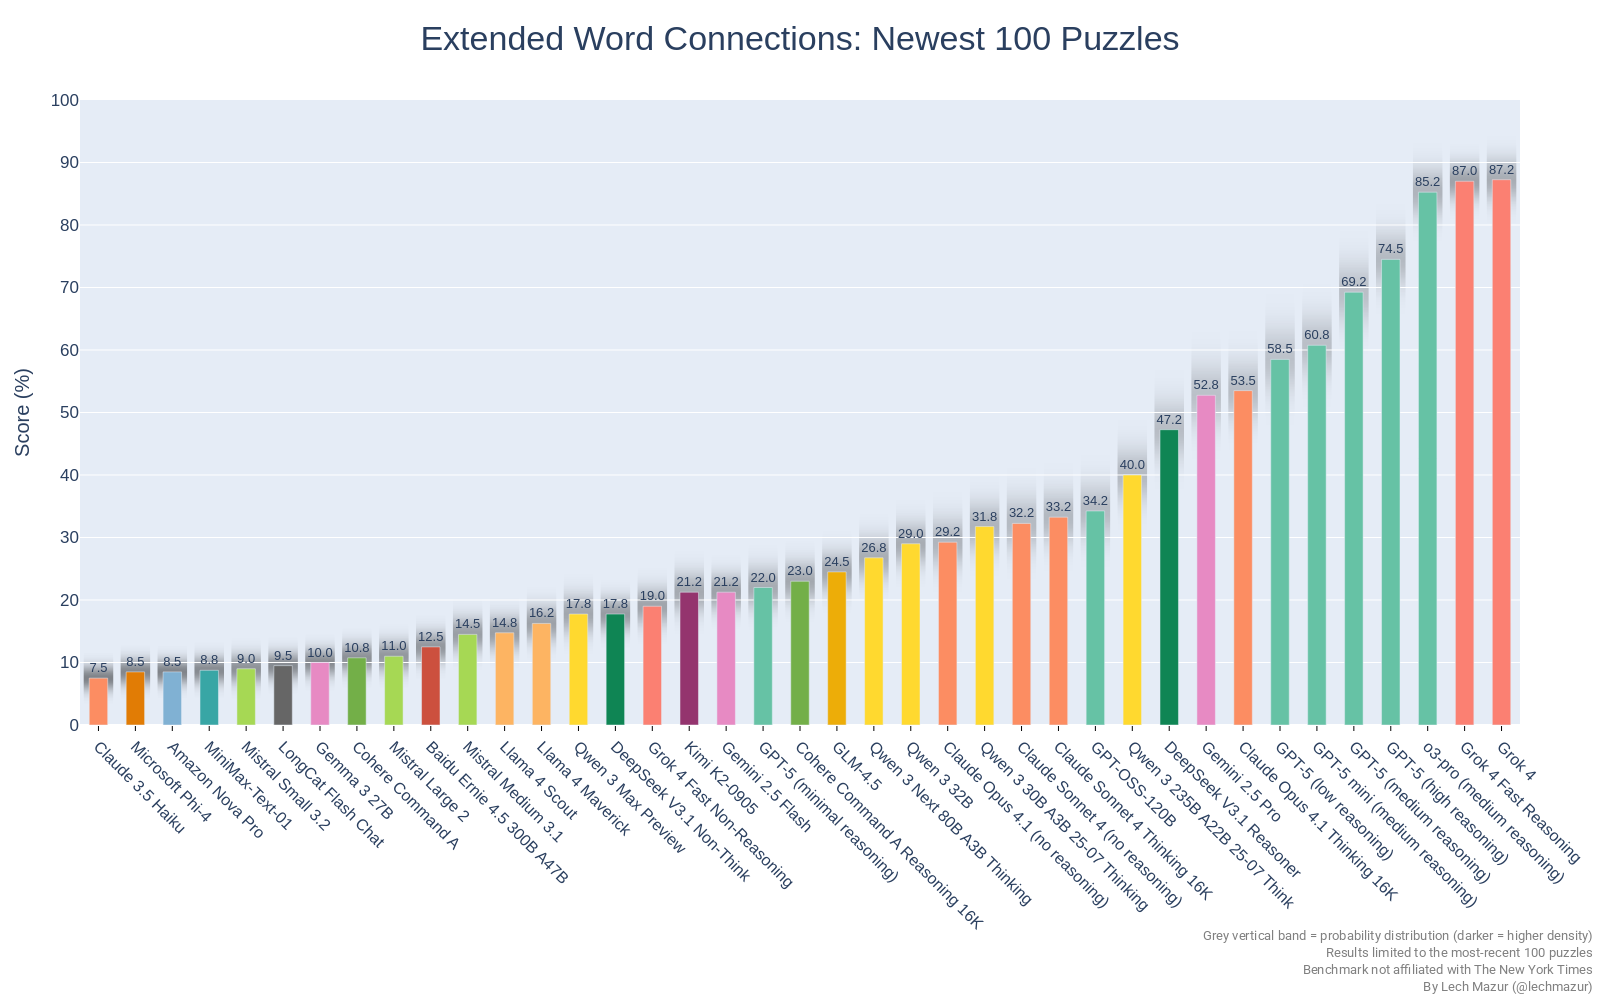
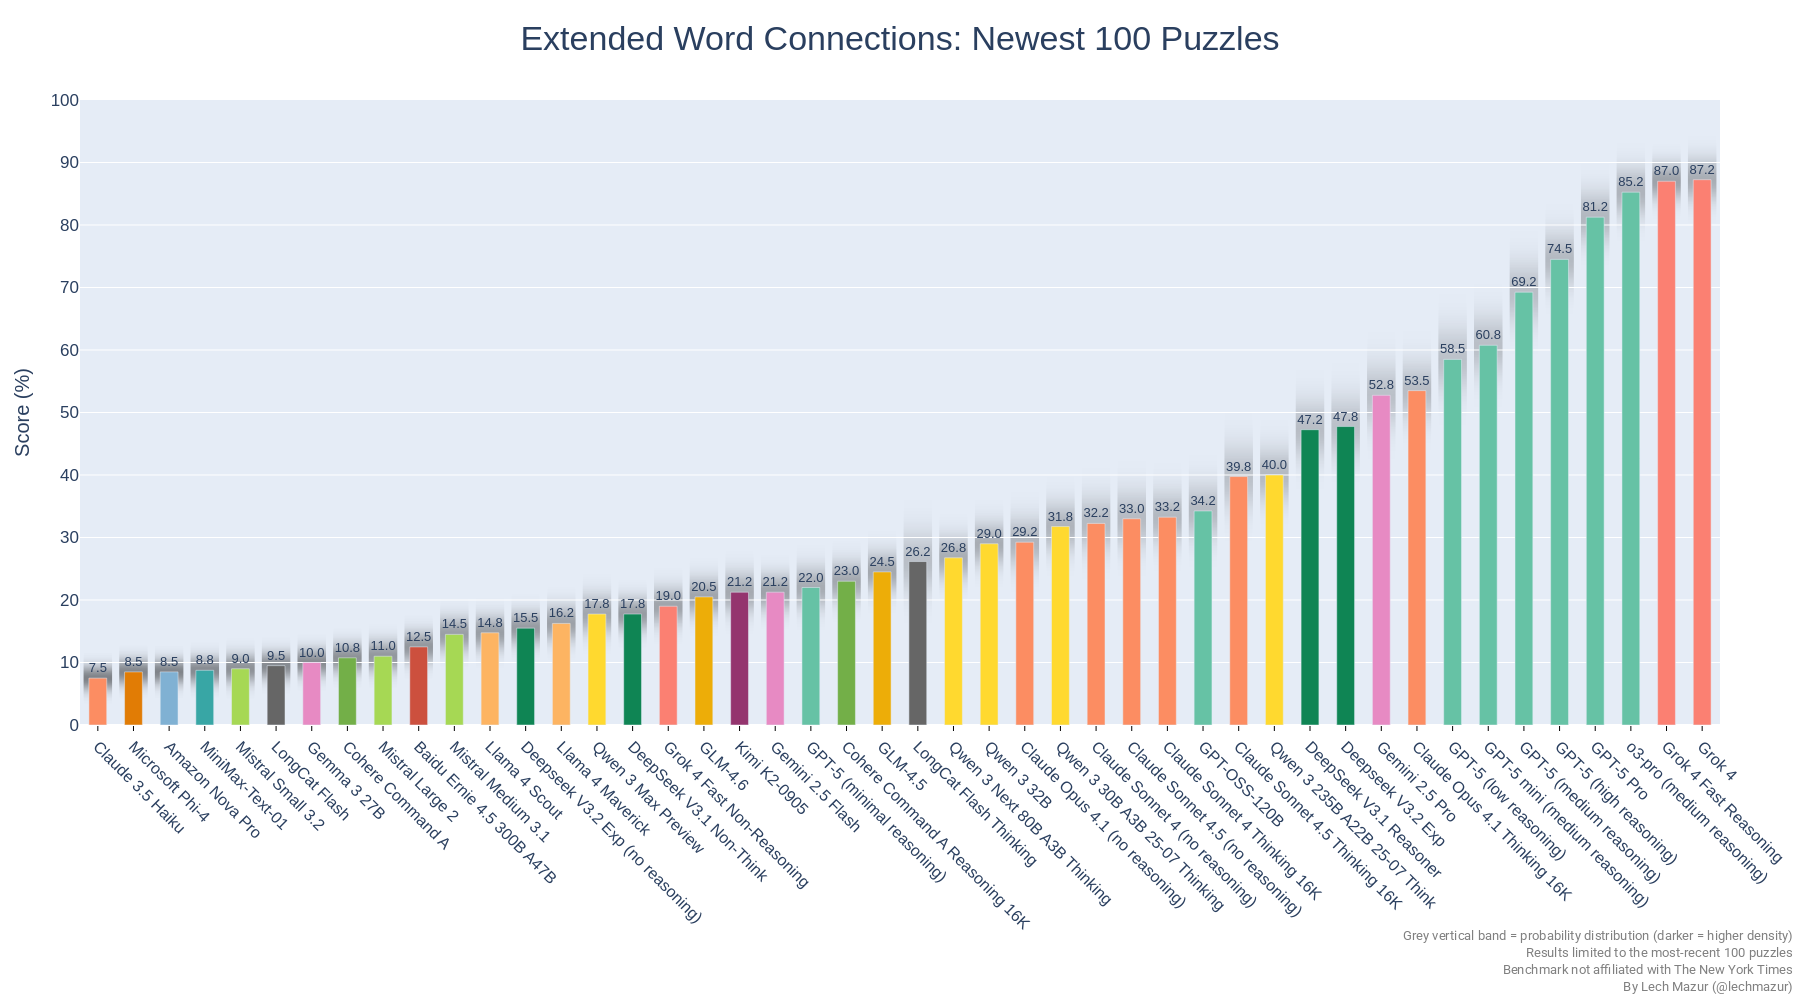
Claude Sonnet 4.5, Deepseek V3.2 Exp, GLM-4.6

diff --git a/README.md b/README.md
@@ -16,99 +16,106 @@ As of Feb 4, 2025, there is a new version of the benchmark. The standard NYT Con
 |2|Grok 4|91.7|759|
 |3|Sonoma Sky Alpha|90.7|759|
 |4|o3-pro (medium reasoning)|87.3|759|
-|5|o1-pro (medium reasoning)|82.5|651|
-|6|o3 (high reasoning)|78.6|759|
-|7|GPT-5 (high reasoning)|77.0|759|
-|8|o4-mini (high reasoning)|73.6|759|
-|9|o3 (medium reasoning)|73.0|759|
-|10|GPT-5 (medium reasoning)|72.2|759|
-|11|o1 (medium reasoning)|70.8|651|
-|12|o4-mini (medium reasoning)|68.8|651|
-|13|GPT-5 mini (medium reasoning)|66.9|759|
-|14|GPT-5 (low reasoning)|65.4|759|
-|15|o3-mini (high reasoning)|61.4|651|
-|16|Claude Opus 4.1 Thinking 16K|58.8|759|
-|17|DeepSeek V3.1 Reasoner|57.7|759|
-|18|Gemini 2.5 Pro|57.6|759|
-|19|Qwen 3 235B A22B|54.3|759|
-|20|Gemini 2.5 Pro Exp 03-25|54.1|651|
-|21|o3-mini (medium reasoning)|53.6|651|
-|22|Claude Opus 4 Thinking 16K|49.7|759|
-|23|DeepSeek R1 05/28|48.6|759|
-|24|Qwen 3 235B A22B 25-07 Think|46.2|759|
-|25|Gemini 2.5 Pro Preview 05-06|42.5|651|
-|26|Claude Sonnet 4 Thinking 16K|40.3|759|
-|27|Claude Sonnet 4 Thinking 64K|39.6|651|
-|28|GPT-OSS-120B|38.7|759|
-|29|DeepSeek R1|38.6|651|
-|30|Claude Opus 4.1 (no reasoning)|37.1|759|
-|31|Qwen 3 30B A3B|36.6|759|
-|32|Qwen 3 32B|35.8|759|
-|33|Qwen 3 30B A3B 25-07 Thinking|35.5|759|
-|34|Claude Opus 4 (no reasoning)|34.4|759|
-|35|GPT-4.5 Preview|34.2|651|
-|36|Claude 3.7 Sonnet Thinking 16K|33.6|651|
-|37|Qwen 3 Next 80B A3B Thinking|32.9|759|
-|38|Qwen QwQ-32B 16K|31.4|651|
-|39|Grok 3 Mini Beta (high)|30.2|759|
-|40|GLM-4.5|30.2|759|
-|41|GPT-5 (minimal reasoning)|27.3|759|
-|42|o1-mini|26.9|651|
-|43|Claude Sonnet 4 (no reasoning)|26.6|759|
-|44|Grok 3 Mini Beta (low)|26.0|651|
-|45|Quasar Alpha|25.4|651|
-|46|Cohere Command A Reasoning 16K|25.3|759|
-|47|Gemini 2.5 Flash|25.2|759|
-|48|Grok 4 Fast Non-Reasoning|24.9|759|
-|49|GPT-4o Mar 2025|24.5|759|
-|50|Qwen 3 Max Preview|23.9|759|
-|51|Kimi K2-0905|23.6|759|
-|52|Gemini 2.0 Flash Think Exp 01-21|23.1|649|
-|53|GPT-4.1|22.8|759|
-|54|Sonoma Dusk Alpha|22.8|759|
-|55|GPT-4o Feb 2025|22.7|651|
-|56|Gemini 2.0 Pro Exp 02-05|21.7|651|
-|57|DeepSeek V3.1 Non-Think|21.6|759|
-|58|MiniMax-M1|21.3|688|
-|59|Kimi K2|19.8|759|
-|60|Qwen 3 235B A22B 25-07 Instruct|19.8|759|
-|61|Grok 3 Beta (no reasoning)|19.7|759|
-|62|Grok 2 12-12|19.2|651|
-|63|Gemini 1.5 Pro (Sept)|19.2|601|
-|64|Claude 3 Opus|19.2|650|
-|65|Claude 3.7 Sonnet|19.2|651|
-|66|Gemini 2.0 Flash|18.8|651|
-|67|GPT-4o 2024-11-20|18.7|601|
-|68|Llama 4 Maverick|18.5|759|
-|69|Qwen 2.5 Max|18.0|651|
-|70|GPT-4o 2024-08-06|17.8|601|
-|71|Claude 3.5 Sonnet 2024-10-22|17.7|651|
-|72|Llama 4 Scout|17.4|759|
-|73|DeepSeek V3-0324|16.8|759|
-|74|Llama 3.1 405B|16.2|651|
-|75|Mistral Medium 3.1|15.2|759|
-|76|DeepSeek V3|15.1|651|
-|77|Llama 3.3 70B|15.1|651|
-|78|Baidu Ernie 4.5 300B A47B|14.8|759|
-|79|GPT-4.1 mini|14.4|759|
-|80|MiniMax-Text-01|13.8|759|
-|81|Cohere Command A|13.1|759|
-|82|Mistral Large 2|12.4|759|
-|83|Gemma 2 27B|12.2|651|
-|84|LongCat Flash Chat|12.1|759|
-|85|Gemma 3 27B|11.6|759|
-|86|Mistral Medium 3|11.5|759|
-|87|Mistral Small 3.1|11.4|651|
-|88|Mistral Small 3.2|11.2|759|
-|89|Qwen 2.5 72B|10.5|759|
-|90|Claude 3.5 Haiku|10.0|759|
-|91|Amazon Nova Pro|9.9|759|
-|92|Microsoft Phi-4|9.9|759|
-|93|GPT-4o mini|9.7|759|
-|94|Mistral Small 3|8.9|601|
-|95|GPT-4.1 nano|8.1|759|
-|96|GLM4-32B-0414|7.6|759|
-|97|Claude 3 Haiku|2.2|601|
+|5|GPT-5 Pro|83.9|759|
+|6|o1-pro (medium reasoning)|82.5|651|
+|7|o3 (high reasoning)|78.6|759|
+|8|GPT-5 (high reasoning)|77.0|759|
+|9|o4-mini (high reasoning)|73.6|759|
+|10|o3 (medium reasoning)|73.0|759|
+|11|GPT-5 (medium reasoning)|72.2|759|
+|12|o1 (medium reasoning)|70.8|651|
+|13|o4-mini (medium reasoning)|68.8|651|
+|14|GPT-5 mini (medium reasoning)|66.9|759|
+|15|GPT-5 (low reasoning)|65.4|759|
+|16|o3-mini (high reasoning)|61.4|651|
+|17|Deepseek V3.2 Exp|59.4|759|
+|18|Claude Opus 4.1 Thinking 16K|58.8|759|
+|19|DeepSeek V3.1 Reasoner|57.7|759|
+|20|Gemini 2.5 Pro|57.6|759|
+|21|Qwen 3 235B A22B|54.3|759|
+|22|Gemini 2.5 Pro Exp 03-25|54.1|651|
+|23|o3-mini (medium reasoning)|53.6|651|
+|24|Claude Opus 4 Thinking 16K|49.7|759|
+|25|DeepSeek R1 05/28|48.6|759|
+|26|Claude Sonnet 4.5 Thinking 16K|48.2|759|
+|27|Qwen 3 235B A22B 25-07 Think|46.2|759|
+|28|Claude Sonnet 4.5 (no reasoning)|46.1|759|
+|29|Gemini 2.5 Pro Preview 05-06|42.5|651|
+|30|Claude Sonnet 4 Thinking 16K|40.3|759|
+|31|Claude Sonnet 4 Thinking 64K|39.6|651|
+|32|GPT-OSS-120B|38.7|759|
+|33|DeepSeek R1|38.6|651|
+|34|Claude Opus 4.1 (no reasoning)|37.1|759|
+|35|Qwen 3 30B A3B|36.6|759|
+|36|Qwen 3 32B|35.8|759|
+|37|Qwen 3 30B A3B 25-07 Thinking|35.5|759|
+|38|Claude Opus 4 (no reasoning)|34.4|759|
+|39|GPT-4.5 Preview|34.2|651|
+|40|Claude 3.7 Sonnet Thinking 16K|33.6|651|
+|41|Qwen 3 Next 80B A3B Thinking|32.9|759|
+|42|LongCat Flash Thinking|31.7|499|
+|43|Qwen QwQ-32B 16K|31.4|651|
+|44|Grok 3 Mini Beta (high)|30.2|759|
+|45|GLM-4.5|30.2|759|
+|46|GPT-5 (minimal reasoning)|27.3|759|
+|47|o1-mini|26.9|651|
+|48|Claude Sonnet 4 (no reasoning)|26.6|759|
+|49|Grok 3 Mini Beta (low)|26.0|651|
+|50|Quasar Alpha|25.4|651|
+|51|Cohere Command A Reasoning 16K|25.3|759|
+|52|Gemini 2.5 Flash|25.2|759|
+|53|Grok 4 Fast Non-Reasoning|24.9|759|
+|54|GPT-4o Mar 2025|24.5|759|
+|55|GLM-4.6|24.2|759|
+|56|Qwen 3 Max Preview|23.9|759|
+|57|Kimi K2-0905|23.6|759|
+|58|Gemini 2.0 Flash Think Exp 01-21|23.1|649|
+|59|GPT-4.1|22.8|759|
+|60|Sonoma Dusk Alpha|22.8|759|
+|61|GPT-4o Feb 2025|22.7|651|
+|62|Gemini 2.0 Pro Exp 02-05|21.7|651|
+|63|DeepSeek V3.1 Non-Think|21.6|759|
+|64|MiniMax-M1|21.3|688|
+|65|Deepseek V3.2 Exp (no reasoning)|20.7|759|
+|66|Kimi K2|19.8|759|
+|67|Qwen 3 235B A22B 25-07 Instruct|19.8|759|
+|68|Grok 3 Beta (no reasoning)|19.7|759|
+|69|Grok 2 12-12|19.2|651|
+|70|Gemini 1.5 Pro (Sept)|19.2|601|
+|71|Claude 3 Opus|19.2|650|
+|72|Claude 3.7 Sonnet|19.2|651|
+|73|Gemini 2.0 Flash|18.8|651|
+|74|GPT-4o 2024-11-20|18.7|601|
+|75|Llama 4 Maverick|18.5|759|
+|76|Qwen 2.5 Max|18.0|651|
+|77|GPT-4o 2024-08-06|17.8|601|
+|78|Claude 3.5 Sonnet 2024-10-22|17.7|651|
+|79|Llama 4 Scout|17.4|759|
+|80|DeepSeek V3-0324|16.8|759|
+|81|Llama 3.1 405B|16.2|651|
+|82|Mistral Medium 3.1|15.2|759|
+|83|DeepSeek V3|15.1|651|
+|84|Llama 3.3 70B|15.1|651|
+|85|Baidu Ernie 4.5 300B A47B|14.8|759|
+|86|GPT-4.1 mini|14.4|759|
+|87|MiniMax-Text-01|13.8|759|
+|88|Cohere Command A|13.1|759|
+|89|Mistral Large 2|12.4|759|
+|90|Gemma 2 27B|12.2|651|
+|91|LongCat Flash|12.1|759|
+|92|Gemma 3 27B|11.6|759|
+|93|Mistral Medium 3|11.5|759|
+|94|Mistral Small 3.1|11.4|651|
+|95|Mistral Small 3.2|11.2|759|
+|96|Qwen 2.5 72B|10.5|759|
+|97|Claude 3.5 Haiku|10.0|759|
+|98|Amazon Nova Pro|9.9|759|
+|99|Microsoft Phi-4|9.9|759|
+|100|GPT-4o mini|9.7|759|
+|101|Mistral Small 3|8.9|601|
+|102|GPT-4.1 nano|8.1|759|
+|103|GLM4-32B-0414|7.6|759|
+|104|Claude 3 Haiku|2.2|601|
 
 
 
@@ -220,6 +227,7 @@ This benchmark evaluates large language models (LLMs) using 436 NYT Connections 
 ---
 
 ## Updates
+- Oct 14, 2025: Claude Sonnet 4.5, Deepseek V3.2 Exp, GLM-4.6 added.
 - Sep 19, 2025: Grok 4 Fast, Qwen 3 Next 80B A3B Thinking, LongCat Flash Chat added.
 - Sep 6, 2025: Kimi K2-0905 added.
 - Sep 5, 2025: Qwen 3 Max Preview, Qwen 3 235B A22B 25-07 Instruct added.
